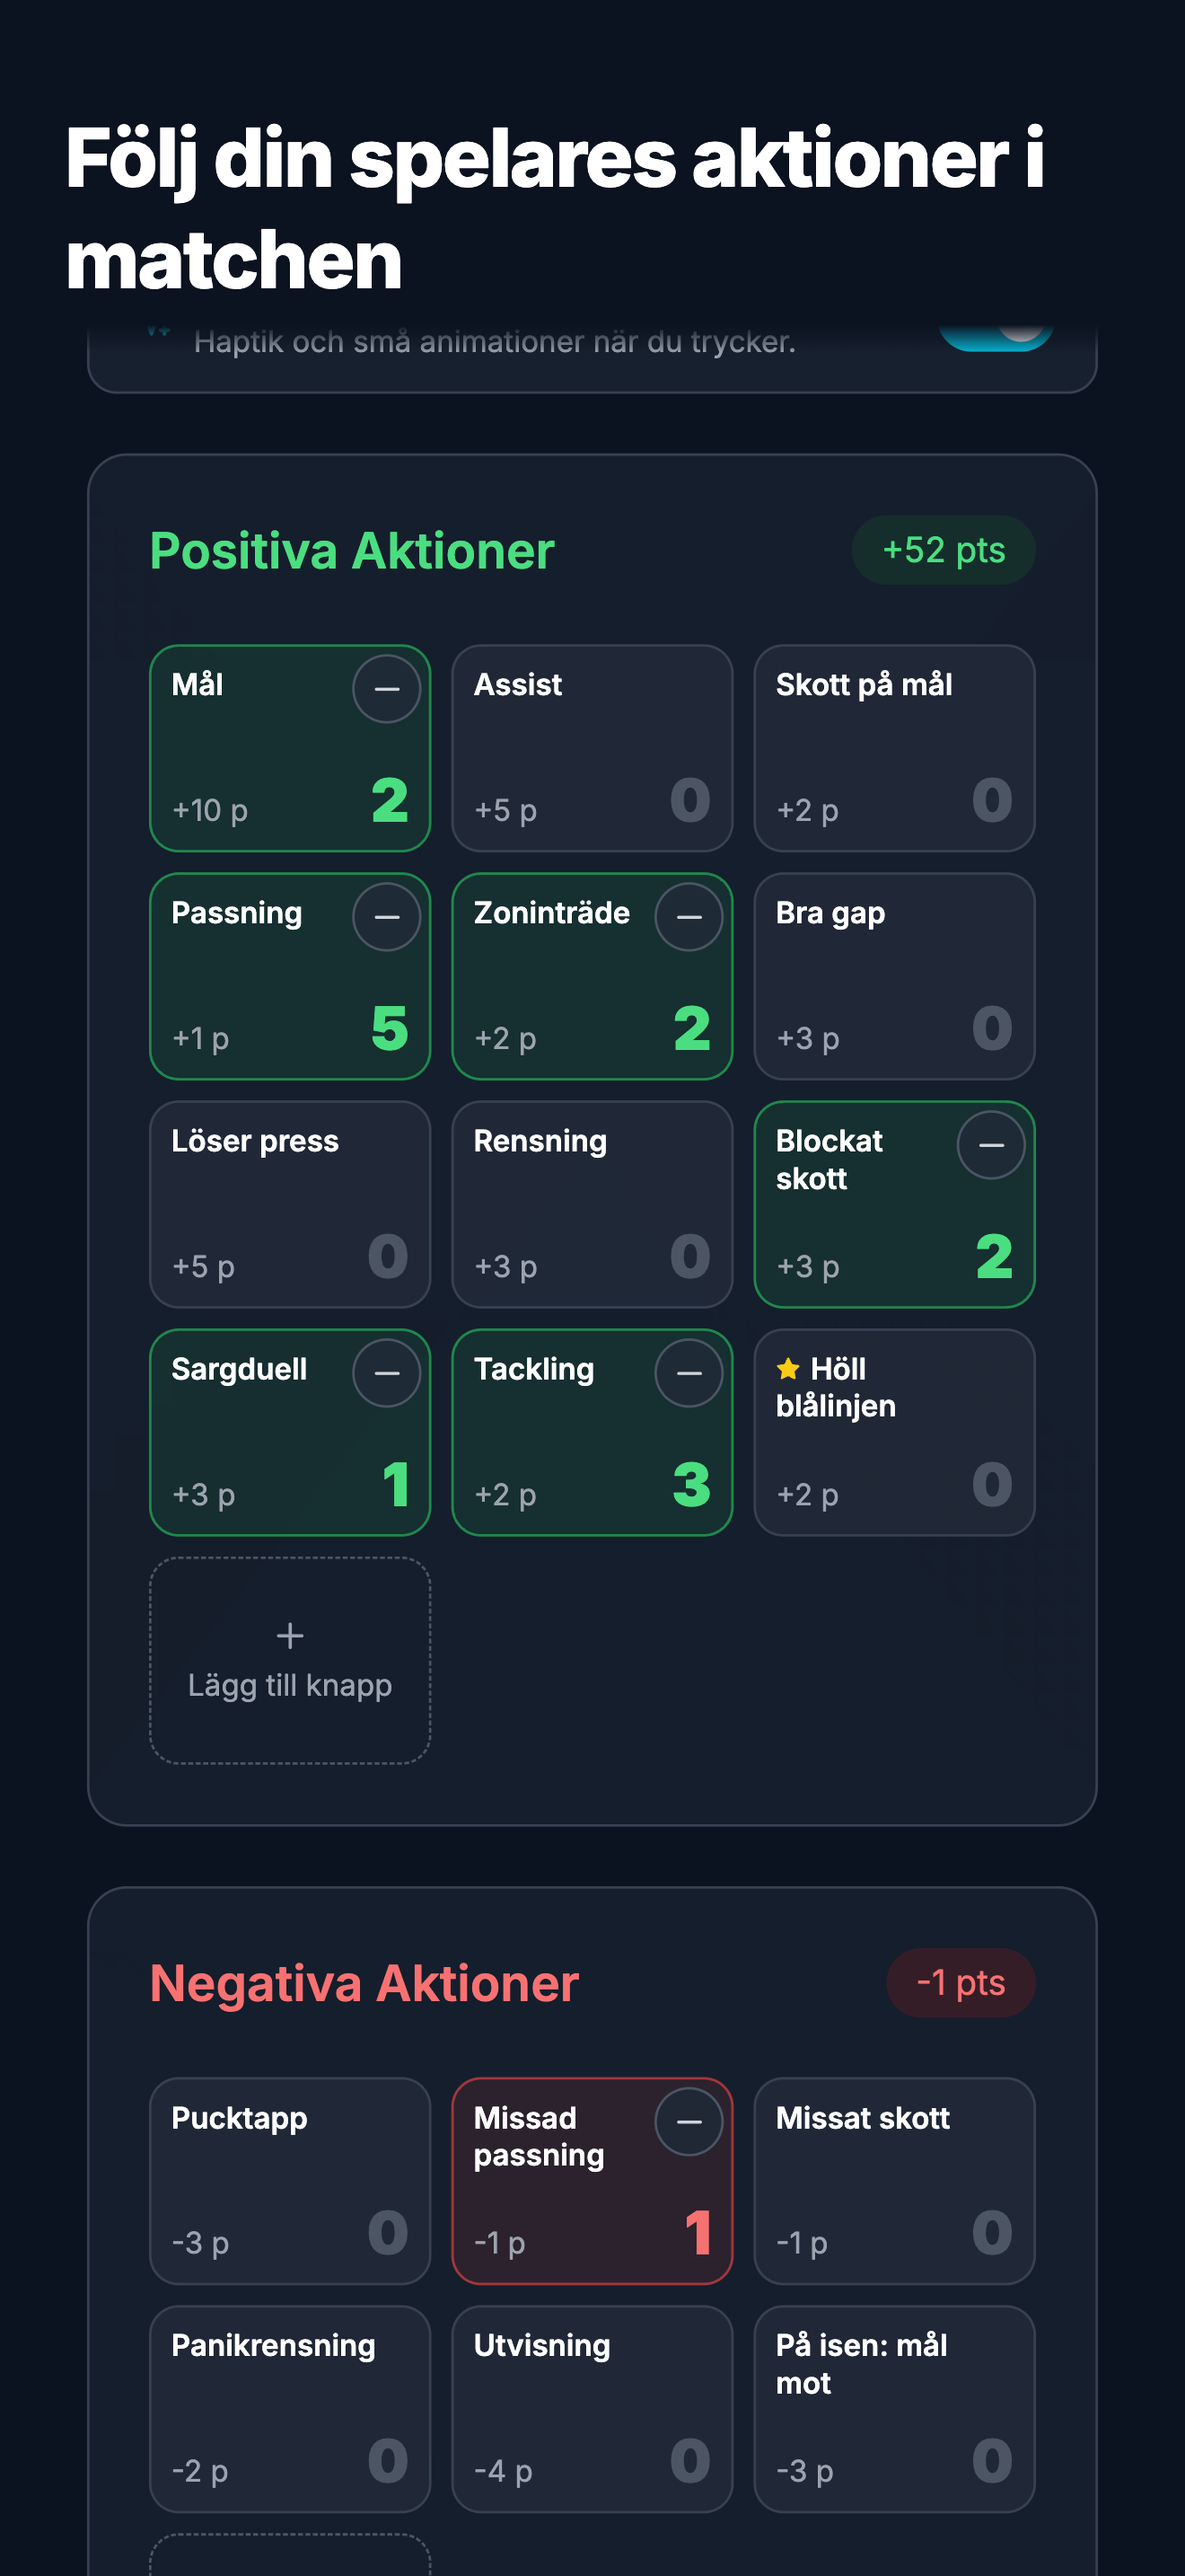
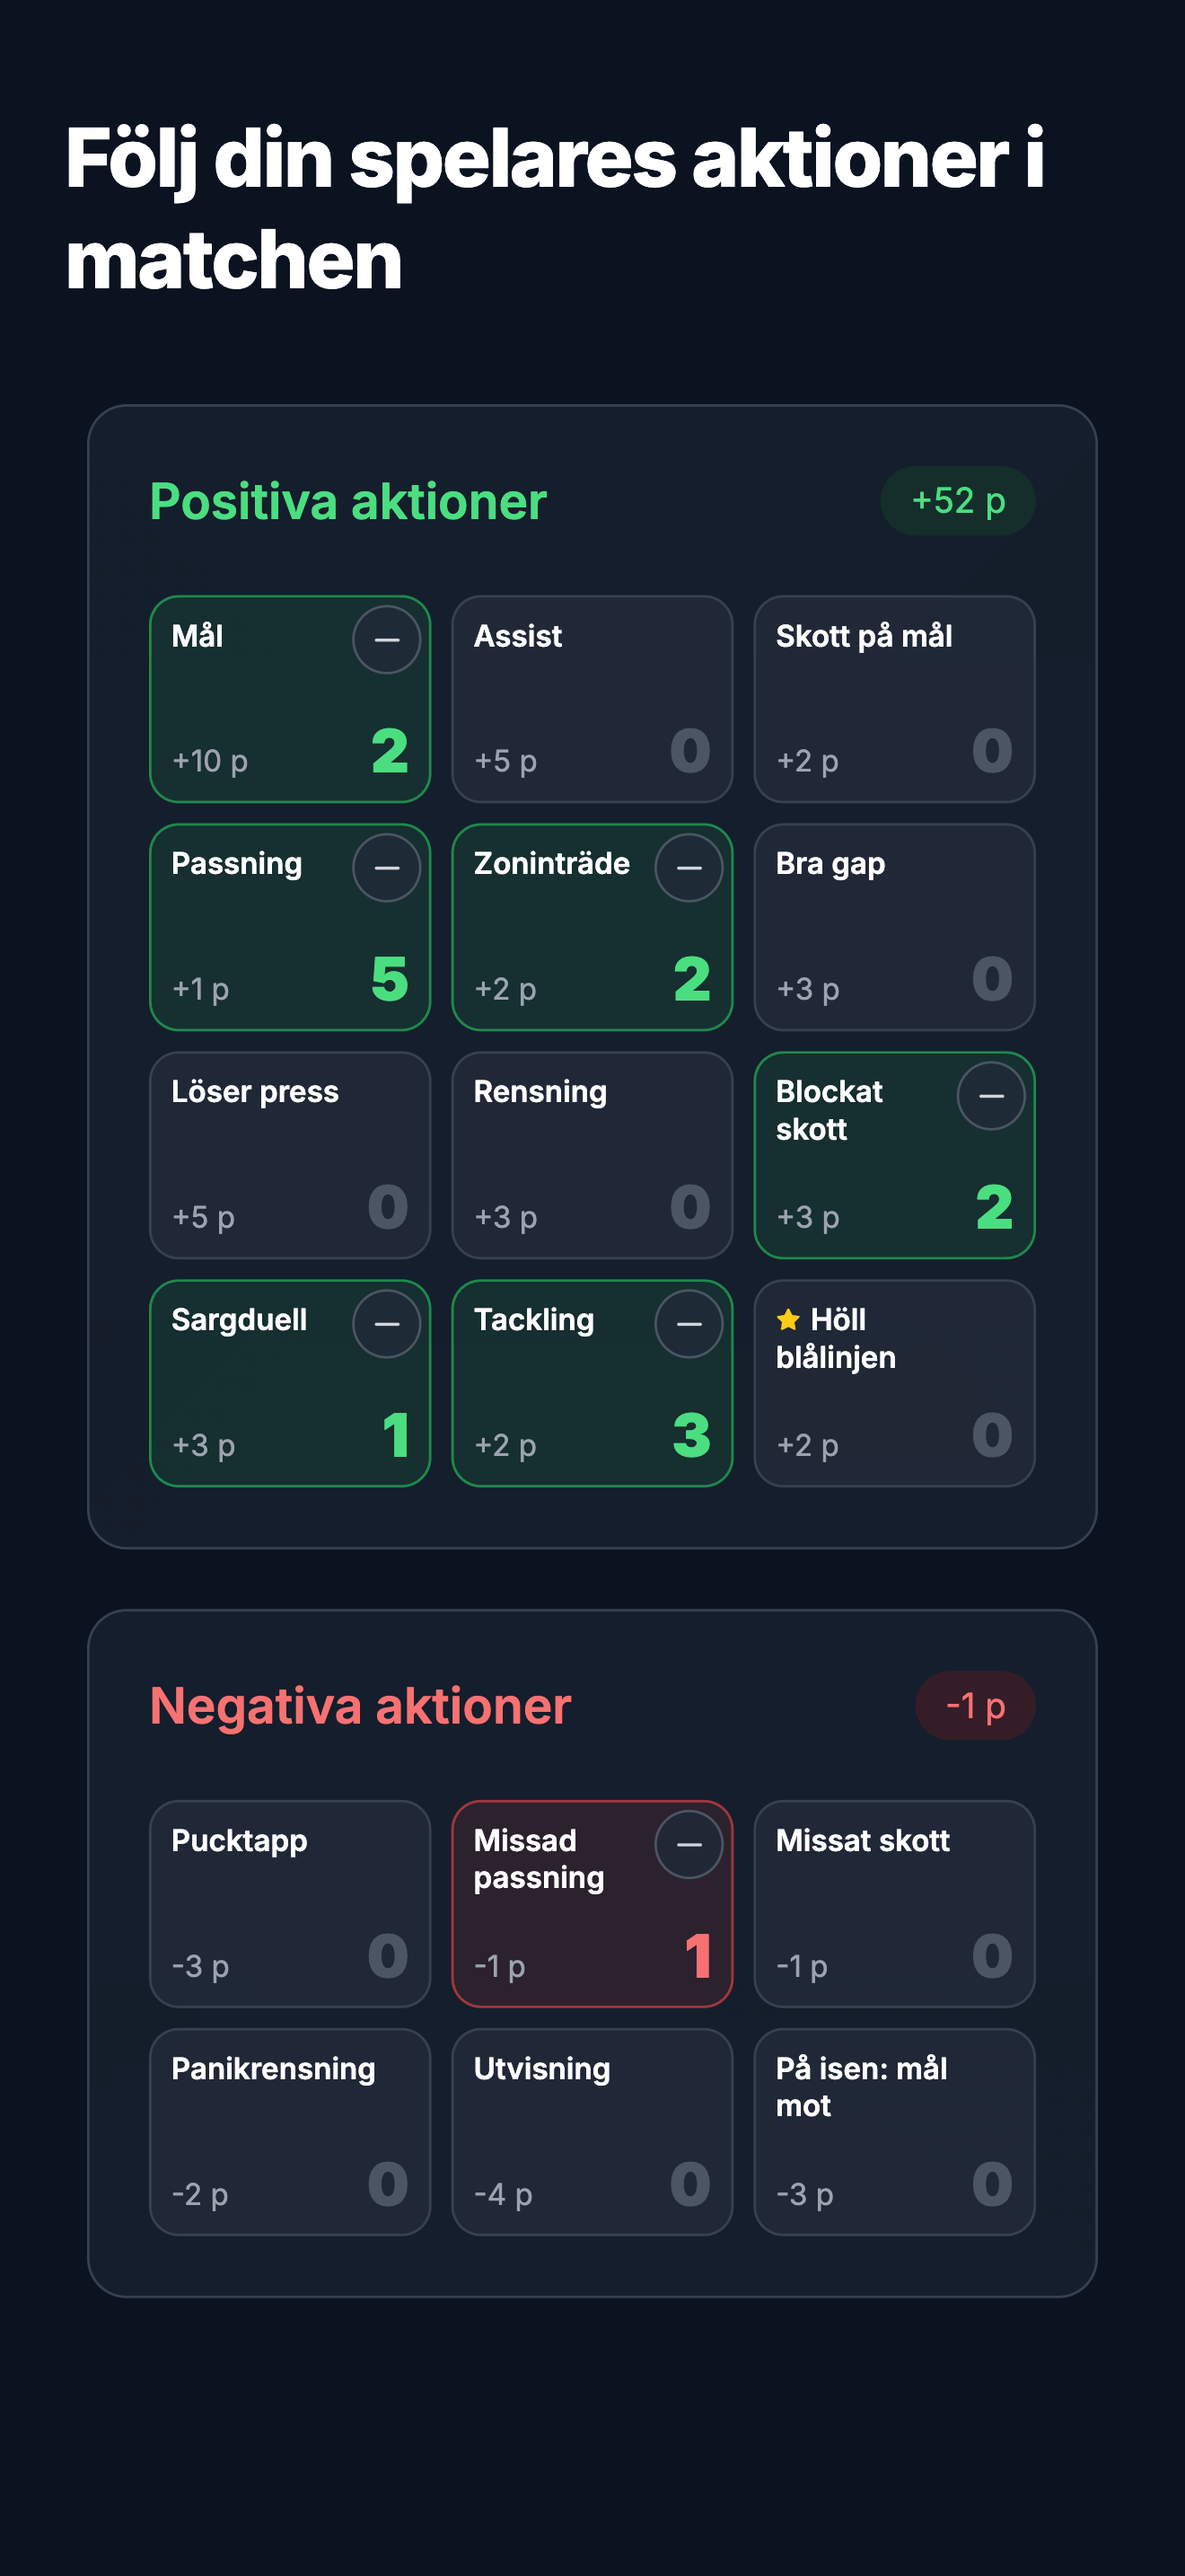
marketing: regenerate App Store screenshots (sv 'p' unit, no add-button tile) and drop badges from store text

diff --git a/src/store-screens.tsx b/src/store-screens.tsx
@@ -75,7 +75,14 @@ function CountedGrid() {
     if (negatives[0]) next[JSON.stringify(negatives[0].name)] = 1
     setCounts(next)
   }, [currentTemplate])
-  return <ActionGrid actionCounts={counts} onCountChange={setCounts} />
+  // Skärmdumpen visar bara knapparna: skärmlås- och effektrutorna överst och
+  // "Lägg till knapp"-rutan längst ned döljs (den senare finns ännu inte i den
+  // släppta appen).
+  return (
+    <div className="[&>div>div:nth-child(-n+2)]:hidden [&_button.border-dashed]:hidden">
+      <ActionGrid actionCounts={counts} onCountChange={setCounts} />
+    </div>
+  )
 }
 
 function ReportImage() {
@@ -109,7 +116,7 @@ function Screen() {
     <div className="bg-[#0b1220] min-h-screen" style={{ width: W, height: H, overflow: 'hidden' }}>
       <Caption text={caption} />
       <div style={{ paddingTop: 150 }} className="px-4">
-        {slide === 1 && <div style={{ transform: 'scale(0.92)', transformOrigin: 'top center', marginTop: -140 }}><CountedGrid /></div>}
+        {slide === 1 && <div style={{ transform: 'scale(0.92)', transformOrigin: 'top center', marginTop: 0 }}><CountedGrid /></div>}
         {slide === 2 && (
           <MatchSummaryReveal
             isOpen onContinue={() => {}} onClose={() => {}} playerName="Elias" points={18}

diff --git a/src/components/dashboard/ActionGrid.tsx b/src/components/dashboard/ActionGrid.tsx
@@ -442,7 +442,7 @@ export default function ActionGrid({ actionCounts, onCountChange, onUpgrade }: A
             {t('positiveActions')}
           </h2>
           <span className="px-3 py-1 bg-green-900/30 text-green-400 rounded-full text-sm">
-            +{calculatePoints(positiveActions)} pts
+            +{calculatePoints(positiveActions)} {language === 'sv' ? 'p' : 'pts'}
           </span>
         </div>
         {grid
@@ -461,7 +461,7 @@ export default function ActionGrid({ actionCounts, onCountChange, onUpgrade }: A
             {t('negativeActions')}
           </h2>
           <span className="px-3 py-1 bg-red-900/30 text-red-400 rounded-full text-sm">
-            {calculatePoints(negativeActions)} pts
+            {calculatePoints(negativeActions)} {language === 'sv' ? 'p' : 'pts'}
           </span>
         </div>
         {grid ? renderTiles(grid.negative, false, { compact: true, extra: addTile }) : renderTiles(negativeActions, false)}

diff --git a/src/utils/translations.ts b/src/utils/translations.ts
@@ -1523,8 +1523,8 @@ export const translations = {
     gameDate: "Matchdatum",
     template: "Mall",
     showPlayerHistory: "Visa Spelarhistorik",
-    positiveActions: "Positiva Aktioner",
-    negativeActions: "Negativa Aktioner",
+    positiveActions: "Positiva aktioner",
+    negativeActions: "Negativa aktioner",
     keepScreenOn: "Håll skärmen tänd",
     keepScreenOnFailed: "Kunde inte hålla skärmen tänd i den här webbläsaren",
     keepScreenOnHint: "Hindrar skärmen från att låsas medan du registrerar matchen",

diff --git a/docs/app-store-listing.md b/docs/app-store-listing.md
@@ -39,7 +39,7 @@ Följ din spelares aktioner i en match genom att trycka på det som händer: pas
 SÅ FUNGERAR DET
 • Skapa ett gratis konto, lägg till en spelare och välj en mall
 • Tryck in händelserna medan du tittar, live eller från video
-• Spara och få en sammanfattning, märken för vana och framsteg, och något att tänka på till nästa gång
+• Spara och få en sammanfattning, en jämförelse med spelarens eget snitt, och något att tänka på till nästa gång
 
 AI-COACH
 Ice IQ Coach läser matchstatistiken och ger konkret feedback: det som gick bra och det som är värt att öva på. Du bestämmer själv när du frågar. Spelarens uppgifter skickas bara efter ditt godkännande.
@@ -75,7 +75,7 @@ Follow your player's actions in a game by tapping what happens: passes, tackles,
 HOW IT WORKS
 • Create a free account, add a player and pick a template
 • Tap the events as you watch, live or from video
-• Save it and get a recap, badges for habits and progress, and something to think about for next time
+• Save it and get a recap, a comparison with the player's own average, and something to think about for next time
 
 AI COACH
 Ice IQ Coach reads the game stats and gives concrete feedback: what went well and what is worth practising. You decide when to ask. The player's information is only sent after you agree to it.
@@ -102,9 +102,9 @@ Färdiga i `marketing/app-store-screenshots/sv/` och `.../en/` (1320 × 2868, iP
 | # | Rubrik (sv) | Visar |
 |---|---|---|
 | 01 | Följ din spelares aktioner i matchen | Inmatningen med stora knappar |
-| 02 | Se hur det gick, mot ditt eget snitt | Sammanfattningen, märken, "att jobba på" |
+| 02 | Se hur det gick, mot ditt eget snitt | Sammanfattningen, "att jobba på" |
 | 03 | Coachen: det som gick bra och något att tänka på | Coachens svar och de två korten |
-| 04 | Följ utvecklingen över säsongen | Kurvan, nyckeltal och märkeshyllan |
+| 04 | Följ utvecklingen över säsongen | Kurvan, nyckeltal |
 | 05 | Lyssna på matchen i korta klipp | Lyssnakortet |
 | 06 | Dela en matchbild med laget | Matchrapporten som bild |
 
